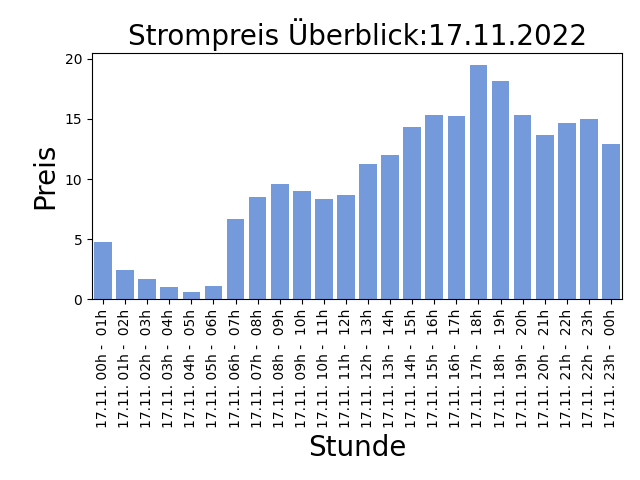
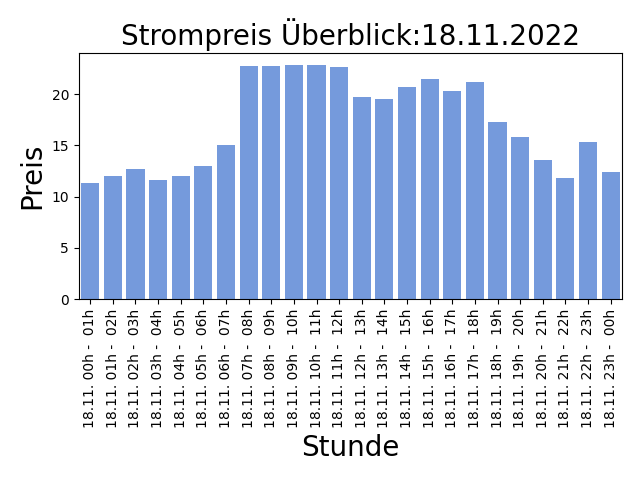
AUTOMATIC UPDATE PRICE LIST: 2022-11-17-14:30:09

Changed region(s): [[0.0312, 0.125, 0.9688, 0.9688], [0.1875, 0.0312, 0.9375, 0.125], [0.0938, 0.0938, 0.1562, 0.1562]]

diff --git a/README.md b/README.md
@@ -1,5 +1,5 @@
 
-## Strompreise für den 17.11.2022
+## Strompreise für den 18.11.2022
 
 Niedrige Preise deuten auf viel Sonnen und Windenergieerzeugung hin, ein hoher Anteil an erneuerbaren Energien bedeuted weniger CO2 Verbrauch!
 
@@ -7,31 +7,31 @@ Niedrige Preise deuten auf viel Sonnen und Windenergieerzeugung hin, ein hoher A
 
 | Stunde | Preis in Cent/kWh |
 |---|---|
-| 17.11. 00h -  01h | 4.795 | 
-| 17.11. 01h -  02h | 2.3920000000000003 | 
-| 17.11. 02h -  03h | 1.645 | 
-| 17.11. 03h -  04h | 1.0390000000000001 | 
-| **17.11. 04h -  05h** | **0.588** | 
-| 17.11. 05h -  06h | 1.106 | 
-| 17.11. 06h -  07h | 6.654999999999999 | 
-| 17.11. 07h -  08h | 8.484 | 
-| 17.11. 08h -  09h | 9.608 | 
-| 17.11. 09h -  10h | 8.99 | 
-| 17.11. 10h -  11h | 8.365 | 
-| 17.11. 11h -  12h | 8.678 | 
-| 17.11. 12h -  13h | 11.244 | 
-| 17.11. 13h -  14h | 11.983 | 
-| 17.11. 14h -  15h | 14.316999999999998 | 
-| 17.11. 15h -  16h | 15.34 | 
-| 17.11. 16h -  17h | 15.265 | 
-| 17.11. 17h -  18h | 19.493000000000002 | 
-| 17.11. 18h -  19h | 18.18 | 
-| 17.11. 19h -  20h | 15.363 | 
-| 17.11. 20h -  21h | 13.668000000000001 | 
-| 17.11. 21h -  22h | 14.684000000000001 | 
-| 17.11. 22h -  23h | 14.98 | 
-| 17.11. 23h -  00h | 12.891 | 
+| **18.11. 00h -  01h** | **11.302** | 
+| 18.11. 01h -  02h | 11.967 | 
+| 18.11. 02h -  03h | 12.683 | 
+| 18.11. 03h -  04h | 11.581999999999999 | 
+| 18.11. 04h -  05h | 12.004999999999999 | 
+| 18.11. 05h -  06h | 12.997 | 
+| 18.11. 06h -  07h | 15.005 | 
+| 18.11. 07h -  08h | 22.779 | 
+| 18.11. 08h -  09h | 22.723 | 
+| 18.11. 09h -  10h | 22.856 | 
+| 18.11. 10h -  11h | 22.856 | 
+| 18.11. 11h -  12h | 22.643 | 
+| 18.11. 12h -  13h | 19.737000000000002 | 
+| 18.11. 13h -  14h | 19.491 | 
+| 18.11. 14h -  15h | 20.691 | 
+| 18.11. 15h -  16h | 21.497999999999998 | 
+| 18.11. 16h -  17h | 20.298 | 
+| 18.11. 17h -  18h | 21.18 | 
+| 18.11. 18h -  19h | 17.276 | 
+| 18.11. 19h -  20h | 15.816999999999998 | 
+| 18.11. 20h -  21h | 13.561000000000002 | 
+| 18.11. 21h -  22h | 11.834999999999999 | 
+| 18.11. 22h -  23h | 15.333000000000002 | 
+| 18.11. 23h -  00h | 12.365 | 
 
 Preise der EPEX Spot ® Strombörse (neue Preise werden täglich um 14:00 veröffentlicht für den kompletten nächsten Tag).
 
-letzte Aktualisierung:16.11.2022 14:30
+letzte Aktualisierung:17.11.2022 14:30
